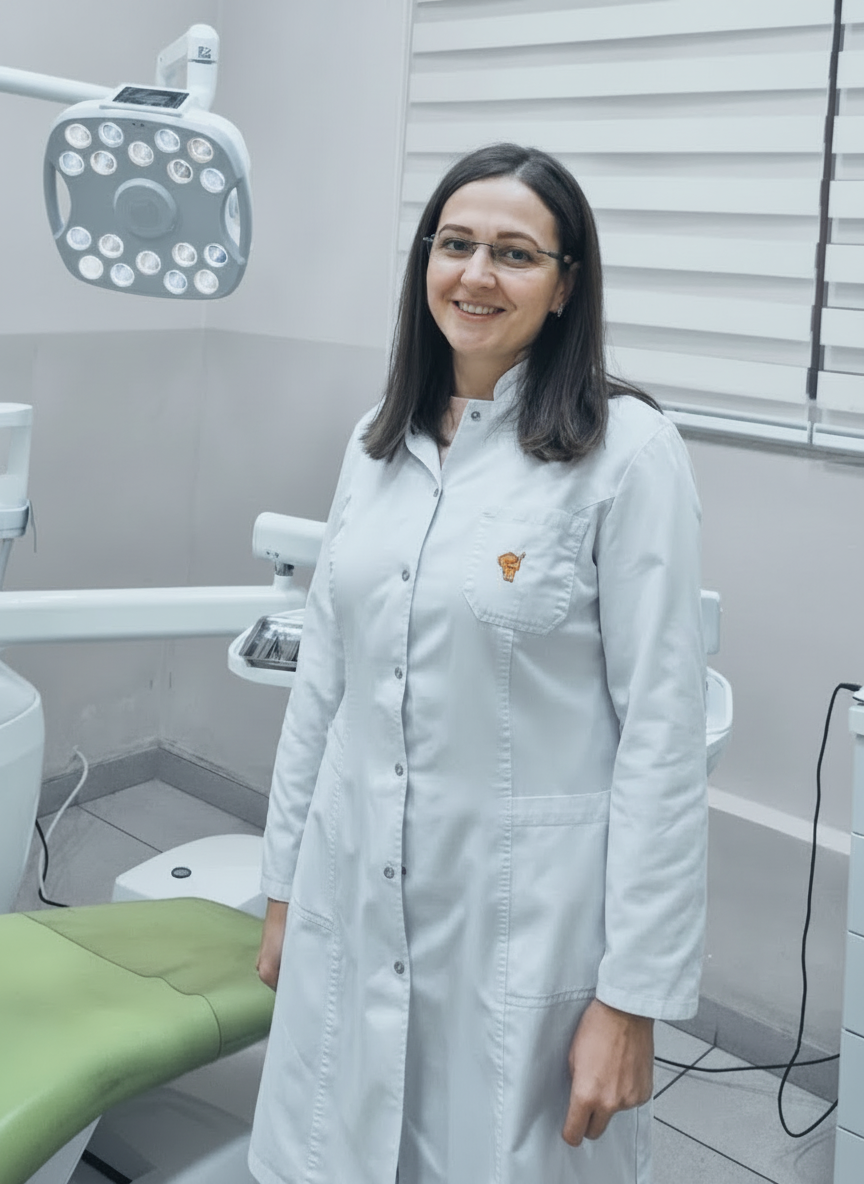
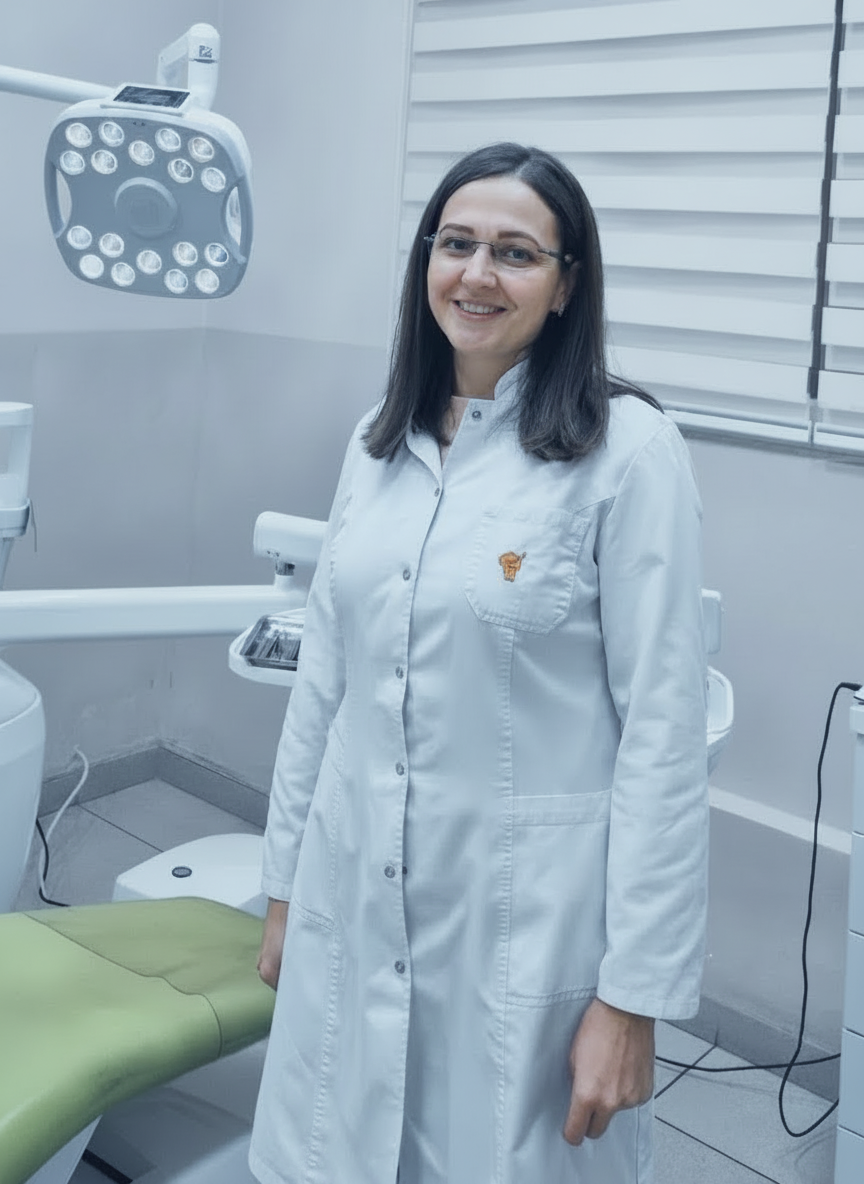
Changes

diff --git a/src/components/Team.tsx b/src/components/Team.tsx
@@ -25,7 +25,7 @@ const teamMembers = [
     name: "Dr Željka Mihajlović",
     role: "Stomatolog",
     description: "Diplomirala na Stomatološkom fakultetu Univerziteta u Beogradu 2018. godine, sa posebnim interesovanjem za savremene estetske i restaurativne tretmane. Kontinuirano pohađa stručne kurseve i kongrese, kako bi svojim pacijentima pružila najbezbolniju i najsavremeniju negu osmeha.",
-    image: aleksandraMilovanovic,
+    image: zeljkaMilovanovic,
   },
   {
     id: 4,
